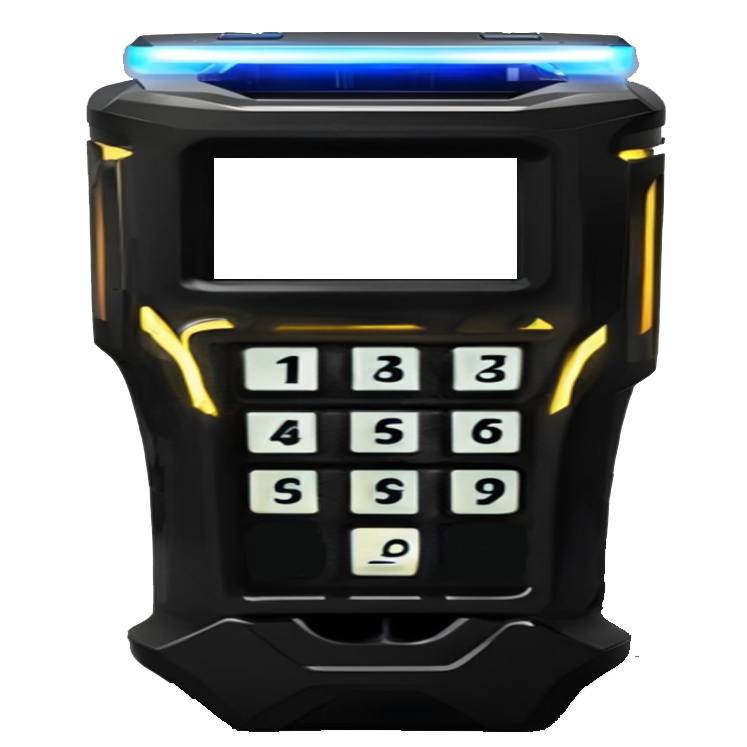
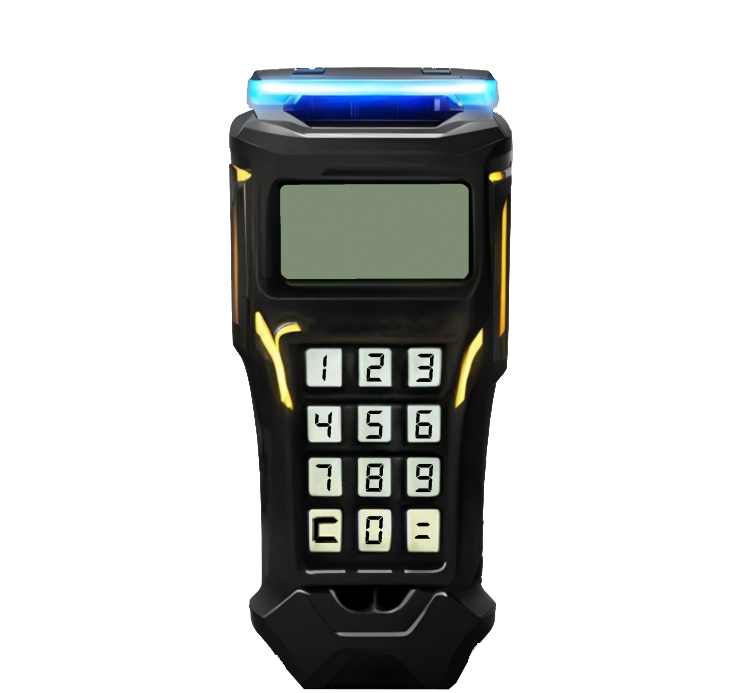
feature:functional math mini game Created functional math mini game, need to implement battery charging, need to implement auto close game after battery finishes charging, need to change the torch aquired animation to something like "you recieved torch and charger"

diff --git a/src/main/resources/css/font4.css b/src/main/resources/css/font4.css
@@ -1,0 +1,8 @@
+@font-face {
+    font-family: 'Segment7';
+    src: url('../fonts/Segment7-4Gml.ttf');
+}
+
+.Segment7Text {
+    -fx-font-family: 'Segment7';
+}

diff --git a/src/main/java/nz/ac/auckland/se206/controllers/EscapeRoomController.java b/src/main/java/nz/ac/auckland/se206/controllers/EscapeRoomController.java
@@ -10,6 +10,8 @@ import java.util.HashMap;
 import java.util.HashSet;
 import java.util.List;
 import java.util.Random;
+import java.util.function.UnaryOperator;
+
 import javafx.animation.Animation;
 import javafx.animation.FadeTransition;
 import javafx.animation.KeyFrame;
@@ -34,7 +36,9 @@ import javafx.scene.control.Label;
 import javafx.scene.control.ScrollPane;
 import javafx.scene.control.TextArea;
 import javafx.scene.control.TextField;
+import javafx.scene.control.TextFormatter;
 import javafx.scene.control.Tooltip;
+import javafx.scene.control.TextFormatter.Change;
 import javafx.scene.effect.Glow;
 import javafx.scene.image.Image;
 import javafx.scene.image.ImageView;
@@ -110,6 +114,10 @@ public class EscapeRoomController {
   private SVGPath uvLightEffect;
   @FXML
   private SVGPath uvTorchEffect;
+  @FXML
+  private Label questionLabel;
+  @FXML
+  private TextArea answerTextArea;
 
   // Kitchen FXML
   @FXML
@@ -307,6 +315,8 @@ public class EscapeRoomController {
     }
   };
 
+  private int currentQuestionType;
+
   private Tooltip currentTooltip; // Maintain a reference to the current tooltip
 
   ///////////////
@@ -320,6 +330,34 @@ public class EscapeRoomController {
   public void initialize() throws ApiProxyException {
     // Configure the timer length based on what the user selected.
     remainingSeconds = GameState.time;
+
+    generateQuestion();
+
+    UnaryOperator<Change> modifyChange = change -> {
+      if (change.isContentChange()) {
+        int newLength = change.getControlNewText().length();
+        if (newLength > 3) {
+          String previousText = change.getControlNewText().substring(0, 3);
+          change.setText(previousText);
+          int previousLength = change.getControlText().length();
+          change.setRange(0, previousLength);
+        }
+        if (!change.getControlNewText().matches("[0-9]*")) {
+          change.setText(change.getControlText());
+        }
+        if (change.getControlNewText().contains("\n")) {
+          System.out.println("return pressed");
+          change.setText(change.getControlText());
+        }
+        if (change.getControlNewText().contains("c") || change.getControlNewText().contains("C")) {
+          change.setText(change.getControlText());
+          System.out.println("c pressed");
+          answerTextArea.clear();
+        }
+      }
+      return change;
+    };
+    answerTextArea.setTextFormatter(new TextFormatter<>(modifyChange));
 
     volume
         .imageProperty()
@@ -577,6 +615,83 @@ public class EscapeRoomController {
 
     // Run a GPT-based instruction for the introduction.
     runGpt(new ChatMessage("user", GptPromptEngineering.getIntroInstruction(GameState.difficulty)));
+  }
+
+  private void generateQuestion() {
+    answerTextArea.clear();
+    Random rand = new Random();
+    int num1, num2;
+    currentQuestionType = rand.nextInt(3) + 1;
+    switch (currentQuestionType) {
+      case 1: // Addition
+        num1 = rand.nextInt(100);
+        num2 = rand.nextInt(100);
+        questionLabel.setText(num1 + " + " + num2);
+        break;
+      case 2: // Subtraction
+        num1 = rand.nextInt(100);
+        num2 = rand.nextInt(num1);
+        questionLabel.setText(num1 + " - " + num2);
+        break;
+      case 3: // Multiplication
+        num1 = rand.nextInt(13);
+        num2 = rand.nextInt(13);
+        questionLabel.setText(num1 + " x " + num2);
+        break;
+    }
+  }
+
+  private void submitAnswer() {
+    if (answerTextArea.getText().isEmpty()) {
+      return; // do nothing if answer area is empty
+    }
+    checkAnswer();
+    answerTextArea.clear();
+    generateQuestion();
+  }
+
+  @FXML
+  public void keypadPressed(MouseEvent event) {
+    Rectangle clickedRectangle = (Rectangle) event.getSource();
+    String rectangleId = clickedRectangle.getId();
+    System.out.println("KeyPad clicked: " + rectangleId);
+    //
+    //
+    //
+    // WHEN THE KEYPAD IS PRESSED, MAKE IT BLINK TO INDICATE USER PRESSED
+    //
+    //
+    //
+    if (rectangleId.equals("calculatorSubmit")) {
+      submitAnswer();
+    } else if (rectangleId.equals("calculatorClear")) {
+      answerTextArea.clear();
+    } else {
+      answerTextArea.appendText(clickedRectangle.getId().split("calculator")[1]);
+    }
+  }
+
+  private void checkAnswer() {
+    int userAnswer = Integer.parseInt(answerTextArea.getText());
+    int correctAnswer = 0;
+
+    switch (currentQuestionType) {
+      case 1: // Addition
+        correctAnswer = Integer.parseInt(questionLabel.getText().split(" ")[0]) +
+            Integer.parseInt(questionLabel.getText().split(" ")[2]);
+        break;
+      case 2: // Subtraction
+        correctAnswer = Integer.parseInt(questionLabel.getText().split(" ")[0]) -
+            Integer.parseInt(questionLabel.getText().split(" ")[2]);
+        break;
+      case 3: // Multiplication
+        correctAnswer = Integer.parseInt(questionLabel.getText().split(" ")[0]) *
+            Integer.parseInt(questionLabel.getText().split(" ")[2]);
+        break;
+    }
+    if (userAnswer == correctAnswer) {
+      chargeBattery();
+    }
   }
 
   @FXML
@@ -885,11 +1000,6 @@ public class EscapeRoomController {
     phoneSwitch.play();
   }
 
-  @FXML
-  public void tempBatteryCharger(MouseEvent event) {
-    chargeBattery();
-  }
-
   private void chargeBattery() {
     GameState.batteryPercent = GameState.batteryPercent + 25;
     if (GameState.batteryPercent >= 100) {
@@ -921,25 +1031,20 @@ public class EscapeRoomController {
           GameState.togglingBattery = false;
         });
 
+    System.out.println("current battery screen status: " + GameState.batteryIsOpen);
     final TranslateTransition batterySwitch = new TranslateTransition();
     batterySwitch.setNode(batteryGroup);
     batterySwitch.setDuration(Duration.millis(500));
     if (GameState.batteryIsOpen) {
-      batterySwitch.setByY(-660);
+      batterySwitch.setByY(-760);
       GameState.batteryIsOpen = false;
-      // Disable and hide the dim screen overlay.
-      // dimScreen.setDisable(true);
-      // dimScreen.setVisible(false);
-      // Disable and hide the computer dim screen overlay.
       batteryDimScreen.setDisable(true);
       batteryDimScreen.setVisible(false);
     } else {
-      batterySwitch.setByY(660);
+      batterySwitch.setByY(760);
       GameState.batteryIsOpen = true;
-      // Enable and show the dim screen overlay.
-      // dimScreen.setDisable(false);
-      // dimScreen.setVisible(true);
-      // Enable and show the computer dim screen overlay.
+      // answerTextArea.requestFocus();
+      batteryGroup.requestFocus();
       batteryDimScreen.setDisable(false);
       batteryDimScreen.setVisible(true);
     }
@@ -947,6 +1052,7 @@ public class EscapeRoomController {
       GameState.batteryForeverClosed = true;
     }
     batterySwitch.play();
+    System.out.println("new battery screen status: " + GameState.batteryIsOpen);
   }
 
   private void toggleComputer() {
@@ -1157,6 +1263,7 @@ public class EscapeRoomController {
    */
   @FXML
   private void onKeyPressed(KeyEvent event) {
+    // System.out.println("key pressed: " + event.getCode());
     if (event.getCode() == KeyCode.ENTER) {
       // Prevent the Enter key event from propagating further
       if (GameState.phoneIsOpen) {
@@ -1165,6 +1272,25 @@ public class EscapeRoomController {
       }
       if (GameState.computerIsOpen) {
         computerLoginButton.fire();
+      }
+      if (GameState.batteryIsOpen) {
+        submitAnswer();
+      }
+    }
+    if (GameState.batteryIsOpen) {
+      if (event.getCode() == KeyCode.BACK_SPACE || event.getCode() == KeyCode.DELETE) {
+        answerTextArea.setText(answerTextArea.getText().substring(0, answerTextArea.getText().length() - 1));
+      } else {
+        // System.out.println("user pressed: " + event.getCode());
+        try {
+          if (event.getText().equals("C") || event.getText().equals("c")) {
+            answerTextArea.clear();
+          }
+          answerTextArea.appendText(event.getText());
+        } catch (Exception e) {
+          // do nothing, only happens when user presses some key like del or insert
+          System.out.println(e);
+        }
       }
     }
   }

diff --git a/src/main/java/nz/ac/auckland/se206/App.java b/src/main/java/nz/ac/auckland/se206/App.java
@@ -23,6 +23,7 @@ public class App extends Application {
     Font.loadFont(App.class.getResourceAsStream("/fonts/Metropolis.ttf"), 16);
     Font.loadFont(App.class.getResourceAsStream("/fonts/STENCIL.ttf"), 16);
     Font.loadFont(App.class.getResourceAsStream("/fonts/eraser.ttf"), 16);
+    Font.loadFont(App.class.getResourceAsStream("/fonts/Segment7-4Gml.ttf"), 28);
     launch();
   }
 

diff --git a/README.md b/README.md
@@ -50,3 +50,5 @@ accessToken: “YOUR_KEY”`
 - Typing Sound Effect (no copyright): https://www.youtube.com/watch?v=OJhWtBBJw10
 - Volume icon: https://www.iconsdb.com/white-icons/volume-up-4-icon.html
 - spot light sfx: https://www.youtube.com/watch?v=YWz9WzzeJwI
+- paper scroll image: https://www.freepik.com/free-vector/old-parchment-papers_6905535.htm#query=paper%20scroll&position=1&from_view=search&track=ais
+  segment 7 font: https://www.fontspace.com/segment7-font-f19825
